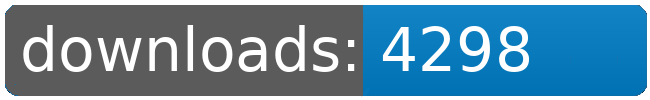
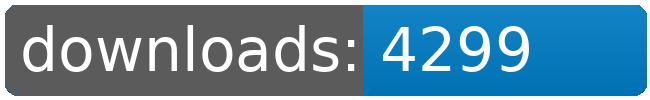
dl log written

Changed region(s): [[0.7692, 0.27, 0.8308, 0.72]]

diff --git a/README.md b/README.md
@@ -43,8 +43,8 @@
 		<td>5220</td>
 		<td>5240</td>
 		<td>5258</td>
-		<td>5279</td>
-		<td>+ 21</td>
+		<td>5280</td>
+		<td>+ 22</td>
 	</tr>
 	<tr>
 		<td>Jaws</td>
@@ -65,8 +65,8 @@
 		<td>4243</td>
 		<td>4263</td>
 		<td>4281</td>
-		<td>4298</td>
-		<td>+ 17</td>
+		<td>4299</td>
+		<td>+ 18</td>
 	</tr>
 	<tr>
 		<td>Louise.Conglomerate.Shipyards</td>
@@ -109,8 +109,8 @@
 		<td></td>
 		<td></td>
 		<td></td>
-		<td>35245</td>
-		<td>148</td>
+		<td>35247</td>
+		<td>150</td>
 	</tr>
 </table>
 </sub></sup>
@@ -135,8 +135,8 @@
 		<td>5220</td>
 		<td>5240</td>
 		<td>5258</td>
-		<td>5279</td>
-		<td>+ 21</td>
+		<td>5280</td>
+		<td>+ 22</td>
 	</tr>
 	<tr>
 		<td>Louise.Conglomerate.Shipyards</td>
@@ -157,8 +157,8 @@
 		<td>4243</td>
 		<td>4263</td>
 		<td>4281</td>
-		<td>4298</td>
-		<td>+ 17</td>
+		<td>4299</td>
+		<td>+ 18</td>
 	</tr>
 	<tr>
 		<td>Bunsen.Burner</td>
@@ -223,8 +223,8 @@
 		<td></td>
 		<td></td>
 		<td></td>
-		<td>35245</td>
-		<td>148</td>
+		<td>35247</td>
+		<td>150</td>
 	</tr>
 </table>
 </sub></sup>
